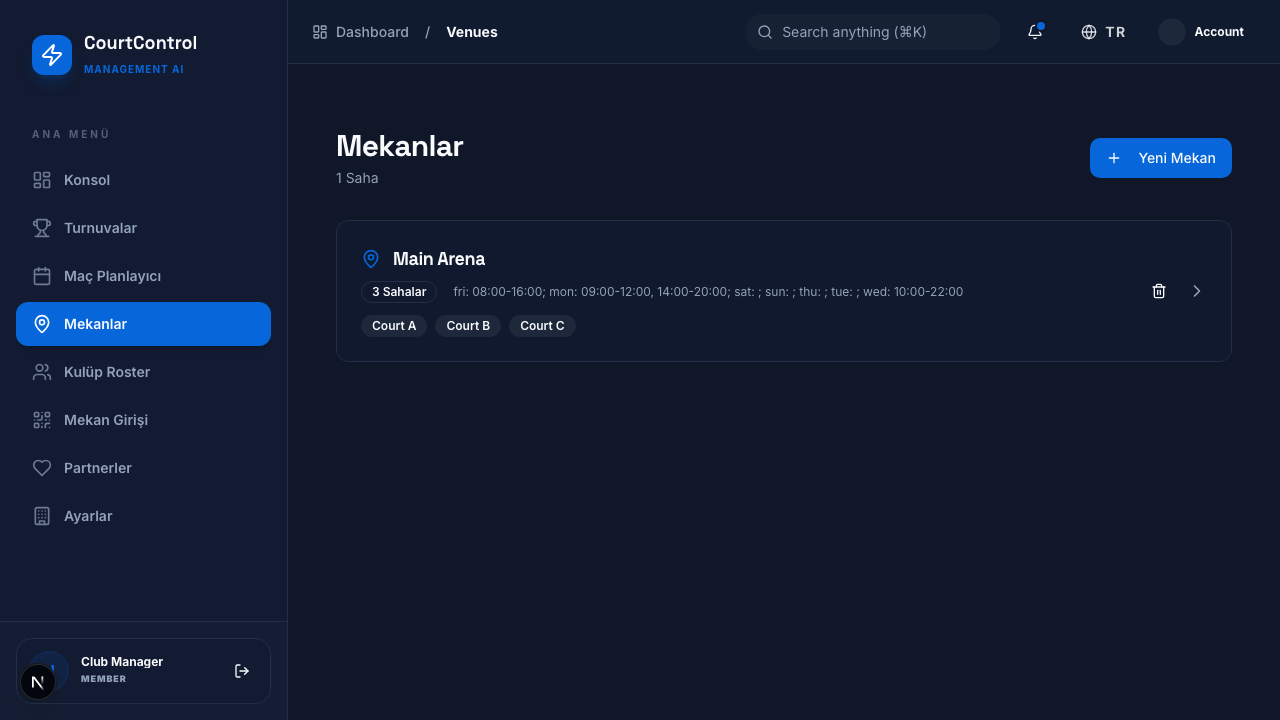
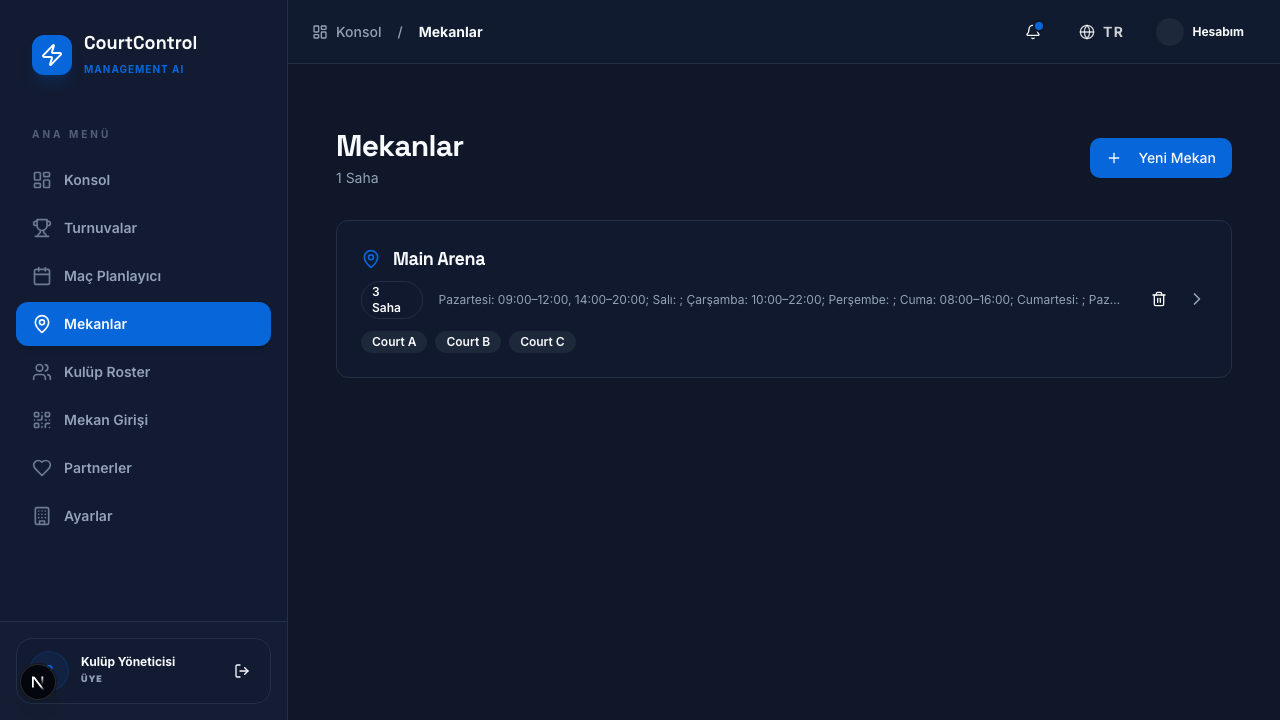
fix(ui): regenerate SEL-83 screenshots, fix test-mode race in dashboard layout
- Regenerated venues-list, venues-detail, venues-reorder screenshots
  with authenticated test session (all md5 changed from stale values)
- Fixed race condition in dashboard/layout.tsx: test-mode fetch was
  racing with the unauth redirect effect, causing test users to be
  bounced to /login before isTestMode was known
- Updated README.md with verified descriptions of each screenshot

diff --git a/src/app/dashboard/layout.tsx b/src/app/dashboard/layout.tsx
@@ -64,13 +64,15 @@ export default function DashboardLayout({ children }: { children: React.ReactNod
   const { t } = useI18n();
   
   const [isTestMode, setIsTestMode] = React.useState(false);
+  const [testModeLoading, setTestModeLoading] = React.useState(true);
   const hasNextAuthSession = sessionStatus === 'authenticated' && session?.user;
 
   React.useEffect(() => {
     fetch('/api/auth/test-mode')
       .then((r) => r.json())
       .then((d) => setIsTestMode(!!d.enabled))
-      .catch(() => {});
+      .catch(() => {})
+      .finally(() => setTestModeLoading(false));
   }, []);
 
   const userProfileRef = useMemoFirebase(() => {
@@ -103,13 +105,23 @@ export default function DashboardLayout({ children }: { children: React.ReactNod
   // different component".
   React.useEffect(() => {
     if (sessionStatus === 'loading') return;
+    if (testModeLoading) return;
     if (isTestMode && hasNextAuthSession) {
       return;
     }
     if (!authUnavailable && !authLoading && !user) {
       router.replace('/login');
     }
-  }, [authUnavailable, authLoading, user, router, isTestMode, hasNextAuthSession, sessionStatus]);
+  }, [authUnavailable, authLoading, user, router, isTestMode, hasNextAuthSession, sessionStatus, testModeLoading]);
+
+  if (testModeLoading) {
+    return (
+      <div className="h-screen flex flex-col items-center justify-center bg-background gap-4">
+        <Loader2 className="h-10 w-10 animate-spin text-primary" />
+        <p className="text-muted-foreground animate-pulse text-xs uppercase tracking-widest font-bold">{t('common.syncingConsole')}</p>
+      </div>
+    );
+  }
 
   if (authUnavailable && !user && !(isTestMode && hasNextAuthSession)) {
     return (

diff --git a/docs/screenshots/README.md b/docs/screenshots/README.md
@@ -10,9 +10,9 @@ The orchestrator opened every PNG in this directory and read the rendered conten
 | `tournaments-public-2026-10-07.png` | Public tournament list | Yes |
 | `venues-list-2026-10-07.png` | **Login page** (stale, pre-fix) | **No** |
 | `venues-detail-2026-10-07.png` | **Login page** (stale, pre-fix) | **No** |
-| `venues-list-2026-10-08.png` | Venue list — "Main Arena" with 3 courts + openHours | Yes |
-| `venues-detail-2026-10-08.png` | Açılış Saatleri editor — Pazartesi 09:00–12:00, 14:00–20:00 | Yes |
-| `venues-reorder-2026-10-08.png` | Court reorder — Court B moved to #1, Court A to #2 | Yes |
+| `venues-list-2026-10-08.png` | Venue list — "Main Arena" with 3 courts, Turkish hours starting Pazartesi, "Konsol / Mekanlar" breadcrumb, "Hesabım" dropdown | Yes |
+| `venues-detail-2026-10-08.png` | Venue detail — "Açılış Saatleri" tab, Pazartesi 09:00–12:00 & 14:00–20:00, Turkish day labels | Yes |
+| `venues-reorder-2026-10-08.png` | Court reorder — Court B moved to #1, Court A to #2, "Sahaları Yönet" tab | Yes |
 
 The two `venues-*-2026-10-07.png` captures were taken without an authenticated session,
 so the middleware redirected to `/login` and the venue screens never rendered. An earlier
